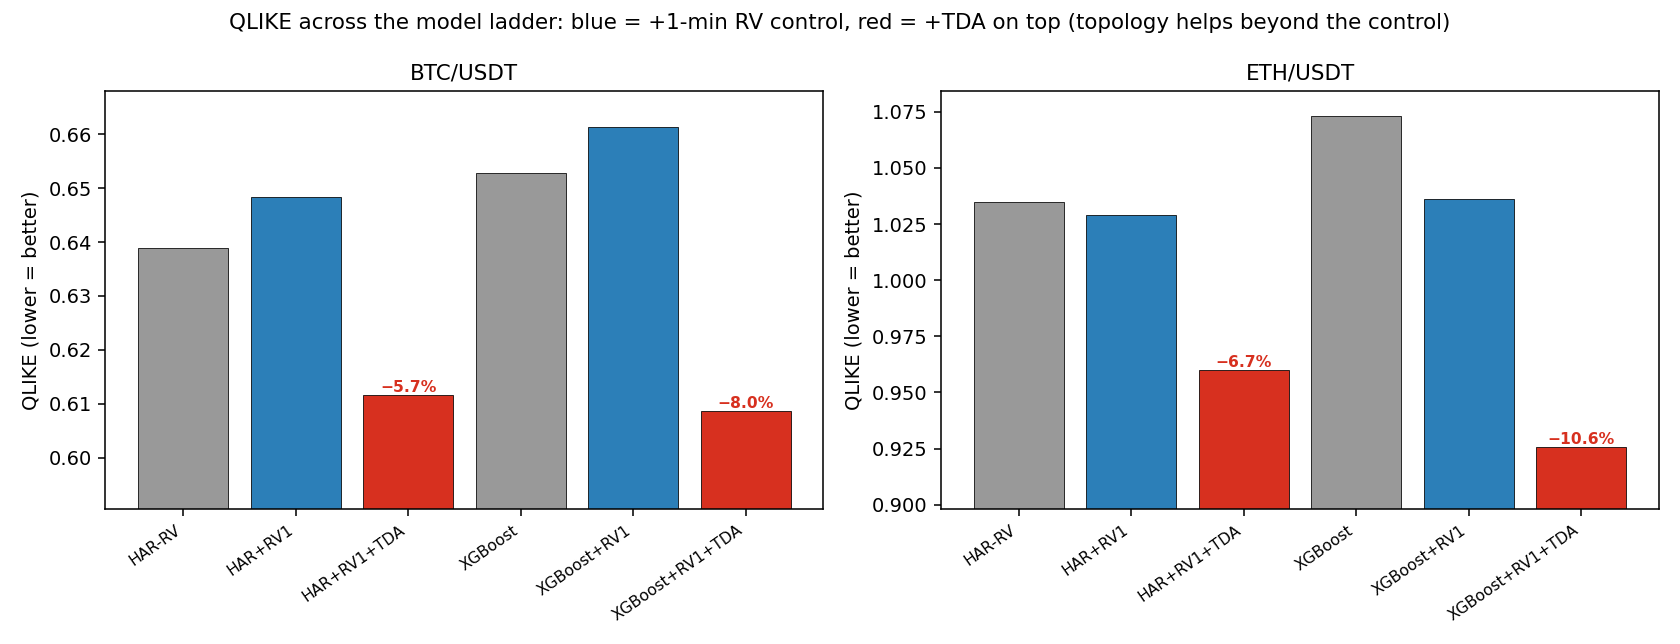
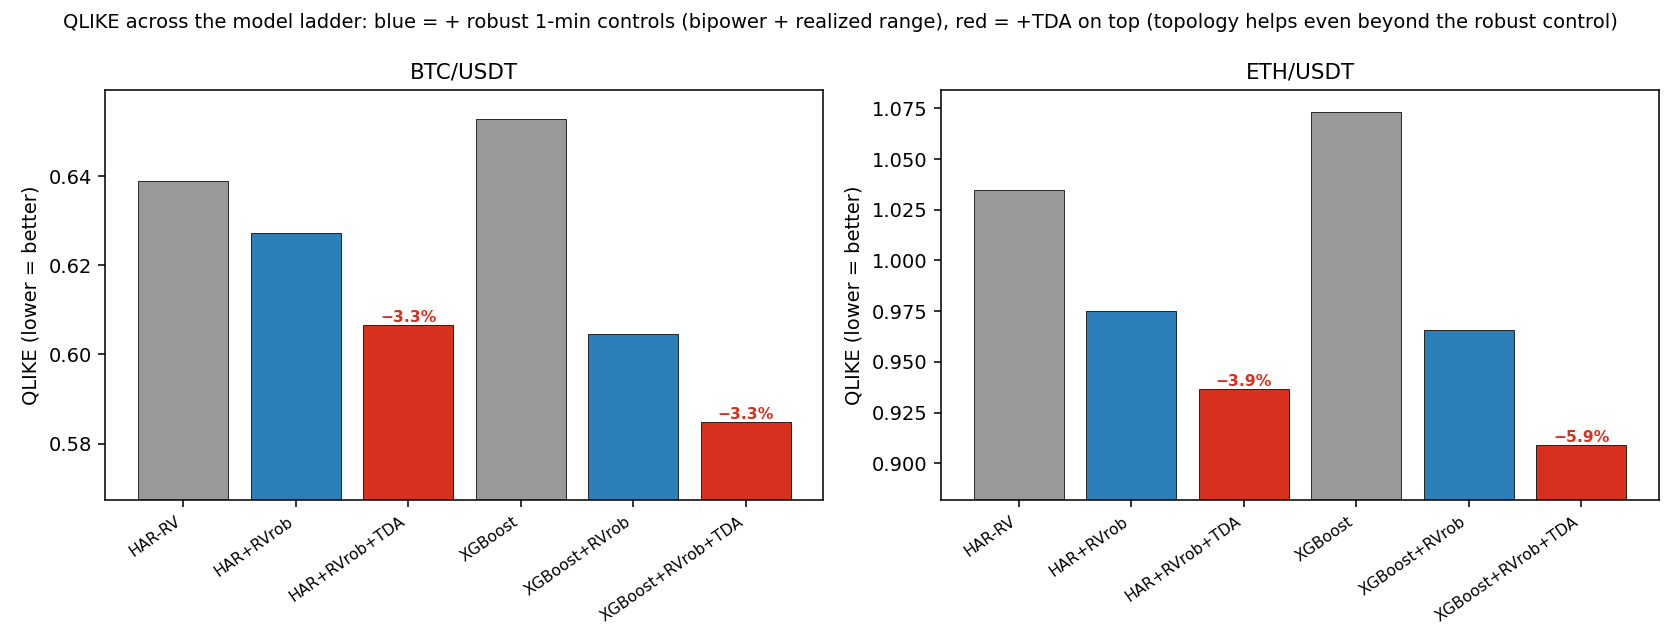
added diagrams and better tests

diff --git a/src/features/visualize.py b/src/features/visualize.py
@@ -14,6 +14,10 @@ Generated figures (saved to results/figures/):
   6. persistence_image.png— persistence images (§8.2), calm vs turbulent
   7. change_vs_rv.png      — Wasserstein topological-change signal vs realized vol
                             over time (Souto's key figure) — needs the TDA file.
+  8. model_ladder.png      — QLIKE across baseline → +robust controls → +TDA
+                            (the key results figure) — needs results/model_summary.csv.
+  9. pipeline_flow.png     — ONE window walked through every stage end to end:
+                            returns → embedding → Vietoris–Rips → diagram → feature vector.
 
 Usage
 -----
@@ -30,13 +34,15 @@ from pathlib import Path
 import matplotlib
 matplotlib.use("Agg")
 import matplotlib.pyplot as plt
+from matplotlib.patches import Rectangle, Polygon
 import numpy as np
 import pandas as pd
 import yaml
 from ripser import ripser
 from scipy.spatial.distance import pdist, squareform
 
-from src.features.tda import TDAConfig, takens_embedding, _finite
+from src.features.tda import (TDAConfig, takens_embedding, _finite,
+                              diagram_features, TDA_FEATURES)
 
 FIGDIR = Path("results/figures")
 CALM, TURB = "#2c7fb8", "#d7301f"   # blue / red throughout
@@ -55,7 +61,8 @@ def _load_close(symbol: str, cfg: dict) -> pd.Series:
 def _window_series(close: pd.Series, t: str, tcfg: TDAConfig) -> np.ndarray:
     """1-min log-returns in (t-window, t], globally scaled — exactly what the
     extractor embeds (so figures show the real point cloud, not a stand-in)."""
-    end = pd.Timestamp(t, tz="UTC")
+    end = pd.Timestamp(t)
+    end = end.tz_localize("UTC") if end.tz is None else end.tz_convert("UTC")
     start = end - pd.Timedelta(minutes=tcfg.window_size)
     r = np.log(close).diff()
     r = r[(r.index > start) & (r.index <= end)].clip(-tcfg.ret_clip, tcfg.ret_clip).dropna()
@@ -260,10 +267,12 @@ def fig_model_ladder(path, results_dir="results"):
     """Grouped QLIKE bars showing that topology helps even after a 1-min RV
     control — the paper's key results figure."""
     summ = pd.read_csv(Path(results_dir) / "model_summary.csv")
-    ladder = ["HAR-RV", "HAR+RV1", "HAR+RV1+TDA",
-              "XGBoost", "XGBoost+RV1", "XGBoost+RV1+TDA"]
-    colors = {"HAR-RV": "0.6", "HAR+RV1": CALM, "HAR+RV1+TDA": TURB,
-              "XGBoost": "0.6", "XGBoost+RV1": CALM, "XGBoost+RV1+TDA": TURB}
+    # Strongest ladder: baseline → + robust 1-min controls (bipower + realized
+    # range + plain RV) → + topology. The last gap is the pure topology effect.
+    ladder = ["HAR-RV", "HAR+RVrob", "HAR+RVrob+TDA",
+              "XGBoost", "XGBoost+RVrob", "XGBoost+RVrob+TDA"]
+    colors = {"HAR-RV": "0.6", "HAR+RVrob": CALM, "HAR+RVrob+TDA": TURB,
+              "XGBoost": "0.6", "XGBoost+RVrob": CALM, "XGBoost+RVrob+TDA": TURB}
     symbols = list(summ["symbol"].unique())
     fig, axes = plt.subplots(1, len(symbols), figsize=(12, 4.6), sharey=False)
     if len(symbols) == 1:
@@ -282,9 +291,124 @@ def fig_model_ladder(path, results_dir="results"):
             b, t = s["qlike"].iloc[grp[0]], s["qlike"].iloc[grp[1]]
             ax.annotate(f"−{(b-t)/b*100:.1f}%", xy=(grp[1], t), xytext=(grp[1], t),
                         ha="center", va="bottom", fontsize=8, color=TURB, fontweight="bold")
-    fig.suptitle("QLIKE across the model ladder: blue = +1-min RV control, "
-                 "red = +TDA on top (topology helps beyond the control)", fontsize=11)
+    fig.suptitle("QLIKE across the model ladder: blue = + robust 1-min controls "
+                 "(bipower + realized range), red = +TDA on top "
+                 "(topology helps even beyond the robust control)", fontsize=10)
     fig.tight_layout(); fig.savefig(path, dpi=140); plt.close(fig)
+
+
+# ── 9. Methodology flow: one window through the whole pipeline ─────────────────
+
+# the 4 topological features that also feed the LINEAR (HAR) model
+_HAR_TDA = {"tda_wass_h1", "tda_pers_entropy_h1", "tda_n_loops_h1", "tda_max_pers_h1"}
+
+
+def fig_pipeline_flow(close, t, tcfg, path):
+    """One window walked through every stage: returns → Takens embedding →
+    Vietoris–Rips complex → persistence diagram → the 12-number feature vector,
+    with the Wasserstein change shown against the previous window."""
+    step = pd.Timedelta(minutes=tcfg.step_size if hasattr(tcfg, "step_size") else 5)
+    t = pd.Timestamp(t, tz="UTC")
+
+    # current + previous window (previous needed for the change features)
+    cur_s  = _window_series(close, t, tcfg)
+    prev_s = _window_series(close, t - step, tcfg)
+    cur_cloud, cur_dgms = _diagrams(cur_s, tcfg)
+    _,         prev_dgms = _diagrams(prev_s, tcfg)
+    feats = diagram_features(cur_dgms, prev_dgms, tcfg)
+
+    fig = plt.figure(figsize=(19, 7.4))
+    gs = fig.add_gridspec(2, 4, height_ratios=[2.3, 1.0],
+                          left=0.045, right=0.985, top=0.88, bottom=0.04,
+                          wspace=0.28, hspace=0.32)
+
+    # ── Step 1: the one-minute returns in the window ──────────────────────────
+    ax1 = fig.add_subplot(gs[0, 0])
+    ax1.plot(np.arange(len(cur_s)), cur_s, color=TURB, lw=1.0)
+    ax1.axhline(0, color="0.7", lw=0.6)
+    ax1.set_title("① 60 one-minute returns\n(scaled, ending at t)", fontsize=10)
+    ax1.set_xlabel("minutes into window"); ax1.set_ylabel("return (×100)")
+
+    # ── Step 2: Takens embedding (3-D point cloud) ────────────────────────────
+    ax2 = fig.add_subplot(gs[0, 1], projection="3d")
+    ax2.scatter(cur_cloud[:, 0], cur_cloud[:, 1], cur_cloud[:, 2], c=TURB, s=16, alpha=0.85)
+    ax2.plot(cur_cloud[:, 0], cur_cloud[:, 1], cur_cloud[:, 2], c=TURB, lw=0.4, alpha=0.4)
+    ax2.set_title(r"② Takens embedding""\n"r"$(r_i, r_{i-1}, r_{i-2})\in\mathbb{R}^3$", fontsize=10)
+    ax2.set_xlabel(r"$r_i$"); ax2.set_ylabel(r"$r_{i-1}$"); ax2.set_zlabel(r"$r_{i-2}$")
+
+    # ── Step 3: Vietoris–Rips complex at a scale where a loop is open ──────────
+    ax3 = fig.add_subplot(gs[0, 2])
+    pts = cur_cloud[:, :2]
+    D = squareform(pdist(cur_cloud))
+    h1 = _finite(cur_dgms[1])
+    if len(h1):
+        b, d = h1[np.argmax(h1[:, 1] - h1[:, 0])]
+        eps = 0.5 * (b + d)
+    else:
+        eps = np.quantile(D[D > 0], 0.2)
+    n = len(cur_cloud)
+    # filled 2-simplices (triangles all of whose edges are ≤ eps)
+    for i in range(n):
+        for j in range(i + 1, n):
+            if D[i, j] > eps:
+                continue
+            for k in range(j + 1, n):
+                if D[i, k] <= eps and D[j, k] <= eps:
+                    ax3.add_patch(Polygon(pts[[i, j, k]], closed=True,
+                                          facecolor="0.8", edgecolor="none", alpha=0.5, zorder=1))
+    iu = np.triu_indices(n, k=1)
+    for a, bb in zip(*iu):
+        if D[a, bb] <= eps:
+            ax3.plot([pts[a, 0], pts[bb, 0]], [pts[a, 1], pts[bb, 1]],
+                     c="0.55", lw=0.5, zorder=2)
+    ax3.scatter(pts[:, 0], pts[:, 1], c=TURB, s=16, zorder=3)
+    ax3.set_title(fr"③ Vietoris–Rips complex at $\varepsilon$={eps:.2f}""\n(2-D projection; a loop is open)", fontsize=10)
+    ax3.set_xticks([]); ax3.set_yticks([])
+
+    # ── Step 4: persistence diagram (current vs previous, → Wasserstein) ───────
+    ax4 = fig.add_subplot(gs[0, 3])
+    allpts = _finite(np.vstack([d for d in cur_dgms if len(d)] or [np.zeros((1, 2))]))
+    hi = float(allpts[:, 1].max()) if len(allpts) else 1.0
+    ax4.plot([0, hi], [0, hi], "k--", lw=0.8, alpha=0.6)
+    h0c = _finite(cur_dgms[0]); h1c = _finite(cur_dgms[1]); h1p = _finite(prev_dgms[1])
+    if len(h1p):
+        ax4.scatter(h1p[:, 0], h1p[:, 1], s=34, facecolor="none",
+                    edgecolor="0.5", lw=1.0, label=r"prev. $H_1$")
+    if len(h0c):
+        ax4.scatter(h0c[:, 0], h0c[:, 1], s=20, c="#444", label=r"$H_0$", alpha=0.8)
+    if len(h1c):
+        ax4.scatter(h1c[:, 0], h1c[:, 1], s=24, c=TURB, label=r"$H_1$", alpha=0.85,
+                    edgecolor="w", lw=0.3)
+    ax4.set_title(r"④ persistence diagram""\n"fr"$W_2$ to prev. $H_1$ = {feats['tda_wass_h1']:.2f}", fontsize=10)
+    ax4.set_xlabel("birth"); ax4.set_ylabel("death"); ax4.legend(loc="lower right", fontsize=8)
+
+    # ── Step 5: the resulting 12-number feature vector ────────────────────────
+    ax5 = fig.add_subplot(gs[1, :]); ax5.axis("off")
+    ax5.set_title("⑤ feature vector appended to the row at t  "
+                  "(red border = also fed to the linear HAR model)",
+                  fontsize=10, loc="left")
+    ncol = 6
+    for idx, name in enumerate(TDA_FEATURES):
+        row, col = divmod(idx, ncol)
+        x, y = col / ncol, 1.0 - (row + 1) * 0.46
+        used = name in _HAR_TDA
+        ax5.add_patch(Rectangle((x + 0.004, y), 1 / ncol - 0.012, 0.40,
+                                transform=ax5.transAxes, facecolor="#fde7e2" if used else "0.96",
+                                edgecolor=TURB if used else "0.7",
+                                lw=1.6 if used else 0.8, clip_on=False))
+        ax5.text(x + 1 / (2 * ncol), y + 0.27, name.replace("tda_", ""),
+                 transform=ax5.transAxes, ha="center", va="center", fontsize=8.5)
+        ax5.text(x + 1 / (2 * ncol), y + 0.10, f"{feats[name]:.3f}",
+                 transform=ax5.transAxes, ha="center", va="center",
+                 fontsize=10, fontweight="bold", color=TURB if used else "0.2")
+
+    # flow arrows between the top panels
+    for xa in (0.262, 0.502, 0.742):
+        fig.text(xa, 0.50, "→", fontsize=26, ha="center", va="center", color="0.4")
+
+    fig.suptitle(f"From a price stream to topology features — one window ending {t:%Y-%m-%d %H:%M} UTC",
+                 fontsize=13, y=0.96)
+    fig.savefig(path, dpi=145); plt.close(fig)
 
 
 # ── main ──────────────────────────────────────────────────────────────────────
@@ -319,6 +443,7 @@ def main():
     fig_change_vs_rv(args.symbol, cfg, FIGDIR / "7_change_vs_rv.png")
     if (Path("results") / "model_summary.csv").exists():
         fig_model_ladder(FIGDIR / "8_model_ladder.png")
+    fig_pipeline_flow(close, args.turbulent, tcfg, FIGDIR / "9_pipeline_flow.png")
 
     print(f"Figures written to {FIGDIR}/")
 

diff --git a/src/features/controls.py b/src/features/controls.py
@@ -21,9 +21,20 @@ from __future__ import annotations
 import numpy as np
 import pandas as pd
 
+from src.utils.cleaning import clean_ohlc_spikes
+
 # Trailing windows (minutes) for 1-min realized variance controls.
 CONTROL_WINDOWS = [15, 60]
 CONTROL_FEATURES = [f"log_rv1_{w}" for w in CONTROL_WINDOWS]
+
+# Jump/outlier-ROBUST 1-min volatility controls, for the stronger robustness test:
+#   bipower variation (jump-robust) and realized range (high/low based). These
+#   target the exact property that total-persistence-H0 might exploit — robustness
+#   to single freak prints — so beating them is a stronger claim for topology.
+ROBUST_CONTROL_FEATURES = (
+    [f"log_bv1_{w}" for w in CONTROL_WINDOWS] +   # bipower variation
+    [f"log_rr1_{w}" for w in CONTROL_WINDOWS]     # realized range
+)
 
 
 def add_frequency_controls(close_1m: pd.Series, grid_index: pd.DatetimeIndex,
@@ -45,3 +56,30 @@ def add_frequency_controls(close_1m: pd.Series, grid_index: pd.DatetimeIndex,
         out[f"log_rv1_{w}"] = np.log(rv_grid.clip(lower=1e-12))
     df = pd.DataFrame(out, index=grid_index)
     return df
+
+
+def add_robust_controls(ohlc_1m: pd.DataFrame, grid_index: pd.DatetimeIndex,
+                        wick_threshold: float = 0.15, ret_clip: float = 0.20) -> pd.DataFrame:
+    """
+    Jump/outlier-robust 1-minute volatility controls, aligned causally to
+    `grid_index`. Both are strictly backward-looking over (t-W, t]:
+
+      Bipower variation (Barndorff-Nielsen & Shephard) — jump-robust:
+          BV_W(t) = (pi/2) * Σ |r_i| |r_{i-1}|    over the W returns ending at t.
+      Realized range (Parkinson / Christensen-Podolskij) — uses intrabar high/low,
+      more efficient and noise-robust, on REPAIRED wicks (clean_ohlc_spikes):
+          RR_W(t) = Σ (ln H_i - ln L_i)^2 / (4 ln 2)   over the W bars ending at t.
+    """
+    ohlc = clean_ohlc_spikes(ohlc_1m, wick_threshold=wick_threshold)
+
+    r = np.log(ohlc["close"]).diff().clip(-ret_clip, ret_clip)
+    bp = (r.abs() * r.abs().shift(1)) * (np.pi / 2.0)          # bipower terms
+    rng = (np.log(ohlc["high"]) - np.log(ohlc["low"])) ** 2 / (4.0 * np.log(2.0))
+
+    out = {}
+    for w in CONTROL_WINDOWS:
+        bv = bp.rolling(w, min_periods=max(w // 2, 2)).sum()
+        rr = rng.rolling(w, min_periods=max(w // 2, 2)).sum()
+        out[f"log_bv1_{w}"] = np.log(bv.reindex(grid_index).clip(lower=1e-12))
+        out[f"log_rr1_{w}"] = np.log(rr.reindex(grid_index).clip(lower=1e-12))
+    return pd.DataFrame(out, index=grid_index)

diff --git a/src/models/evaluation.py b/src/models/evaluation.py
@@ -219,6 +219,12 @@ HAR_TDA_EXTRA = ["tda_wass_h1", "tda_pers_entropy_h1", "tda_n_loops_h1", "tda_ma
 # claim is "TDA helps *beyond* a 1-min RV control", tested by HAR+RV1 → HAR+RV1+TDA.
 CONTROL_FEATURES = ["log_rv1_15", "log_rv1_60"]
 
+# Jump/outlier-ROBUST 1-min controls (bipower variation + realized range). The
+# strongest test: hand the baseline the BEST non-topological 1-min volatility
+# estimators — robust to the single freak prints total-persistence-H0 might exploit
+# — and check whether topology STILL adds value (…+RVrob → …+RVrob+TDA).
+ROBUST_CONTROL_FEATURES = ["log_bv1_15", "log_bv1_60", "log_rr1_15", "log_rr1_60"]
+
 
 # ── Runner ────────────────────────────────────────────────────────────────────
 
@@ -269,9 +275,12 @@ def run_evaluation(cfg_path: str = "config.yaml",
             df.index = df.index.tz_localize("UTC")
         tda_cols  = [c for c in TDA_FEATURES if c in df.columns]
         ctrl_cols = [c for c in CONTROL_FEATURES if c in df.columns]
+        rob_cols  = [c for c in ROBUST_CONTROL_FEATURES if c in df.columns]
+        all_ctrl  = ctrl_cols + rob_cols
         print(f"\n=== {symbol}: {len(df):,} rows "
               f"({'TDA-augmented' if tda_cols else 'baseline only'}"
-              f"{', +controls' if ctrl_cols else ''}) ===")
+              f"{', +controls' if ctrl_cols else ''}"
+              f"{', +robust' if rob_cols else ''}) ===")
 
         models = {
             "HAR-RV":  lambda: HARRV(HAR_FEATURES),
@@ -282,15 +291,26 @@ def run_evaluation(cfg_path: str = "config.yaml",
             xgb_tda = HAR_FEATURES + tda_cols
             models["HAR+TDA"]     = lambda f=har_tda: HARRV(f)
             models["XGBoost+TDA"] = lambda f=xgb_tda: XGBBaseline(f)
+            har_tda_extra = [c for c in HAR_TDA_EXTRA if c in tda_cols]
             if ctrl_cols:
                 har_c  = HAR_FEATURES + ctrl_cols
                 xgb_c  = HAR_FEATURES + ctrl_cols
-                har_ct = HAR_FEATURES + ctrl_cols + [c for c in HAR_TDA_EXTRA if c in tda_cols]
+                har_ct = HAR_FEATURES + ctrl_cols + har_tda_extra
                 xgb_ct = HAR_FEATURES + ctrl_cols + tda_cols
                 models["HAR+RV1"]         = lambda f=har_c:  HARRV(f)
                 models["XGBoost+RV1"]     = lambda f=xgb_c:  XGBBaseline(f)
                 models["HAR+RV1+TDA"]     = lambda f=har_ct: HARRV(f)
                 models["XGBoost+RV1+TDA"] = lambda f=xgb_ct: XGBBaseline(f)
+            if rob_cols:
+                # Strongest control: plain + bipower + realized range together.
+                har_r  = HAR_FEATURES + all_ctrl
+                xgb_r  = HAR_FEATURES + all_ctrl
+                har_rt = HAR_FEATURES + all_ctrl + har_tda_extra
+                xgb_rt = HAR_FEATURES + all_ctrl + tda_cols
+                models["HAR+RVrob"]         = lambda f=har_r:  HARRV(f)
+                models["XGBoost+RVrob"]     = lambda f=xgb_r:  XGBBaseline(f)
+                models["HAR+RVrob+TDA"]     = lambda f=har_rt: HARRV(f)
+                models["XGBoost+RVrob+TDA"] = lambda f=xgb_rt: XGBBaseline(f)
 
         results = {}
         for name, factory in models.items():
@@ -314,12 +334,14 @@ def run_evaluation(cfg_path: str = "config.yaml",
         # Diebold–Mariano comparisons (HAC lag = horizon-1). The last two ISOLATE
         # the topology effect by holding the 1-min RV control fixed on both sides.
         dm_pairs = [
-            ("HAR-RV",      "HAR+TDA"),          # naive linear gain (frequency-confounded)
-            ("XGBoost",     "XGBoost+TDA"),      # naive nonlinear gain (frequency-confounded)
-            ("HAR-RV",      "HAR+RV1"),          # pure frequency gain (no topology)
-            ("XGBoost",     "XGBoost+RV1"),      # pure frequency gain (no topology)
-            ("HAR+RV1",     "HAR+RV1+TDA"),      # TOPOLOGY beyond control (linear)
-            ("XGBoost+RV1", "XGBoost+RV1+TDA"),  # TOPOLOGY beyond control (nonlinear) ← key
+            ("HAR-RV",        "HAR+TDA"),            # naive linear gain (frequency-confounded)
+            ("XGBoost",       "XGBoost+TDA"),        # naive nonlinear gain (frequency-confounded)
+            ("HAR-RV",        "HAR+RV1"),            # pure frequency gain (plain 1-min RV)
+            ("XGBoost",       "XGBoost+RV1"),        # pure frequency gain (plain 1-min RV)
+            ("HAR+RV1",       "HAR+RV1+TDA"),        # topology beyond plain control (linear)
+            ("XGBoost+RV1",   "XGBoost+RV1+TDA"),    # topology beyond plain control (nonlinear)
+            ("HAR+RVrob",     "HAR+RVrob+TDA"),      # topology beyond ROBUST control (linear)
+            ("XGBoost+RVrob", "XGBoost+RVrob+TDA"),  # topology beyond ROBUST control (nonlinear) ← key
         ]
         for base, tda in dm_pairs:
             if base not in results or tda not in results:

diff --git a/src/features/build_tda.py b/src/features/build_tda.py
@@ -30,7 +30,8 @@ import pandas as pd
 import yaml
 
 from src.features.tda import TDAConfig, compute_tda_features, TDA_FEATURES
-from src.features.controls import add_frequency_controls, CONTROL_FEATURES
+from src.features.controls import (add_frequency_controls, add_robust_controls,
+                                   CONTROL_FEATURES, ROBUST_CONTROL_FEATURES)
 
 
 def build_symbol(symbol: str, cfg: dict, tcfg: TDAConfig,
@@ -60,10 +61,11 @@ def build_symbol(symbol: str, cfg: dict, tcfg: TDAConfig,
         grid = grid[:limit]
 
     print(f"[{symbol}] 1-min source: {parquet}")
-    close = pd.read_parquet(parquet)["close"]
-    if close.index.tz is None:
-        close.index = close.index.tz_localize("UTC")
-    close = close.sort_index()
+    ohlc = pd.read_parquet(parquet)[["open", "high", "low", "close"]]
+    if ohlc.index.tz is None:
+        ohlc.index = ohlc.index.tz_localize("UTC")
+    ohlc = ohlc.sort_index()
+    close = ohlc["close"]
 
     print(f"[{symbol}] computing TDA features for {len(grid):,} bars "
           f"(window={tcfg.window_size}m, m={tcfg.embedding_dim}, tau={tcfg.embedding_delay}, "
@@ -73,10 +75,15 @@ def build_symbol(symbol: str, cfg: dict, tcfg: TDAConfig,
     deg = tda["tda_degenerate"].mean()
     print(f"[{symbol}] degenerate (flat/illiquid) windows: {deg:.1%}")
 
-    # Non-topological 1-min realized-vol controls (to isolate the topology effect).
+    # Non-topological 1-min realized-vol controls (to isolate the topology effect):
+    # plain squared-return RV, plus jump/outlier-robust bipower & realized range.
+    wick = cfg.get("cleaning", {}).get("wick_threshold", 0.15)
     controls = add_frequency_controls(close, grid, ret_clip=tcfg.ret_clip)
+    robust   = add_robust_controls(ohlc, grid, wick_threshold=wick, ret_clip=tcfg.ret_clip)
 
-    out = rv.loc[grid].join(tda, how="left").join(controls, how="left")
+    out = (rv.loc[grid].join(tda, how="left")
+                       .join(controls, how="left")
+                       .join(robust, how="left"))
     # any unexpected gaps in the join → zero-structure, flagged degenerate
     miss = out["tda_degenerate"].isna()
     if miss.any():